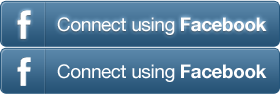
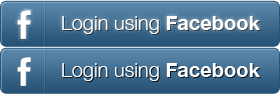
changed 'connect' to 'login' which is more universally understood

Changed region(s): [[0.2, 0.1489, 0.9714, 0.383], [0.2, 0.6596, 0.9714, 0.8723]]

diff --git a/public/css/index.css b/public/css/index.css
@@ -72,6 +72,8 @@ h1.splash{
 
 .hero-unit {
 	background-image: url('/img/grid_noise.png');
+	padding-top: 30px;
+	padding-bottom: 30px;
 }
 
 /* stupid hero-unit p overriding this css property */
